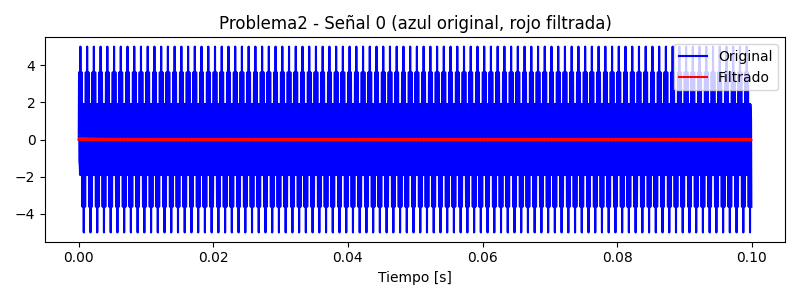
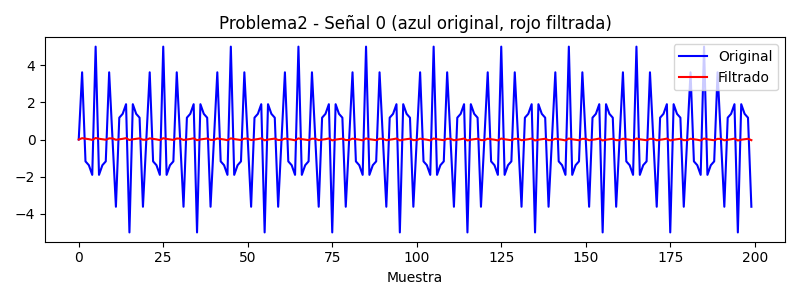
Problema 2

diff --git a/Proyecto01/src/problema2.py b/Proyecto01/src/problema2.py
@@ -37,11 +37,11 @@ def main(save_images=True):
     filt = Filter_Comp(sig, nA)
 
     plt.figure(figsize=(8,3))
-    t = np.arange(len(sig)) / S_RATE
-    plt.plot(t[:2000], sig[:2000], '-b', label='Original')
-    plt.plot(t[:2000], filt[:2000], '-r', label='Filtrado')
+    muestras = np.arange(200)
+    plt.plot(muestras, sig[:200], '-b', label='Original')
+    plt.plot(muestras, filt[:200], '-r', label='Filtrado')
     plt.title(f'Problema2 - Señal {idx} (azul original, rojo filtrada)')
-    plt.xlabel('Tiempo [s]')
+    plt.xlabel('Muestra')
     plt.legend()
     if save_images:
       plt.tight_layout(); plt.savefig(os.path.join(images_dir, f'Problema2_sig{idx}.png'))

diff --git a/Proyecto01/README_Problema2_Explicacion.md b/Proyecto01/README_Problema2_Explicacion.md
@@ -1,0 +1,45 @@
+# Explicación de Resultados – Problema 2
+
+A continuación se explican las imágenes generadas para el Problema 2 del proyecto:
+
+---
+
+
+## Señales originales y filtradas con Filtro Complementario
+
+Las siguientes imágenes muestran los primeros 200 puntos (muestras) de cada señal. El eje X representa el número de muestra.
+
+### Señal 1
+
+![Señal 1](src/ImagesRepo/Problema2_sig0.png)
+
+- **Descripción:** La curva azul es la señal original (combinación de dos senoidales de 9000 Hz y 5000 Hz). La curva roja es la misma señal tras aplicar el filtro complementario.
+- **Interpretación:** El filtro suaviza la señal, reduciendo el ruido de alta frecuencia y estabilizando la forma de onda. Al mostrar solo 200 muestras, la diferencia entre ambas señales es más clara.
+
+---
+
+### Señal 2
+
+![Señal 2](src/ImagesRepo/Problema2_sig1.png)
+
+- **Descripción:** La curva azul es la señal original (combinación de 9000 Hz y 100 Hz). La curva roja es la señal filtrada.
+- **Interpretación:** El filtro complementario elimina parte de las oscilaciones rápidas, dejando una señal más estable. La visualización en muestras permite apreciar mejor el efecto del filtrado.
+
+---
+
+### Señal 3
+
+![Señal 3](src/ImagesRepo/Problema2_sig2.png)
+
+- **Descripción:** La curva azul es la señal original (producto de 5000 Hz y 100 Hz). La curva roja es la señal filtrada.
+- **Interpretación:** El filtro reduce el ruido y suaviza la señal, haciendo más visible la tendencia general. El uso de muestras en el eje X facilita la comparación visual.
+
+---
+
+## Explicaciones adicionales
+
+- **¿Qué es un filtro complementario?**
+  - Es un filtro que combina componentes de alta y baja frecuencia para obtener una señal más estable y menos ruidosa.
+
+- **¿Qué mejora?**
+  - Reduce el ruido y estabiliza la señal, permitiendo observar mejor la tendencia principal de la señal original.
